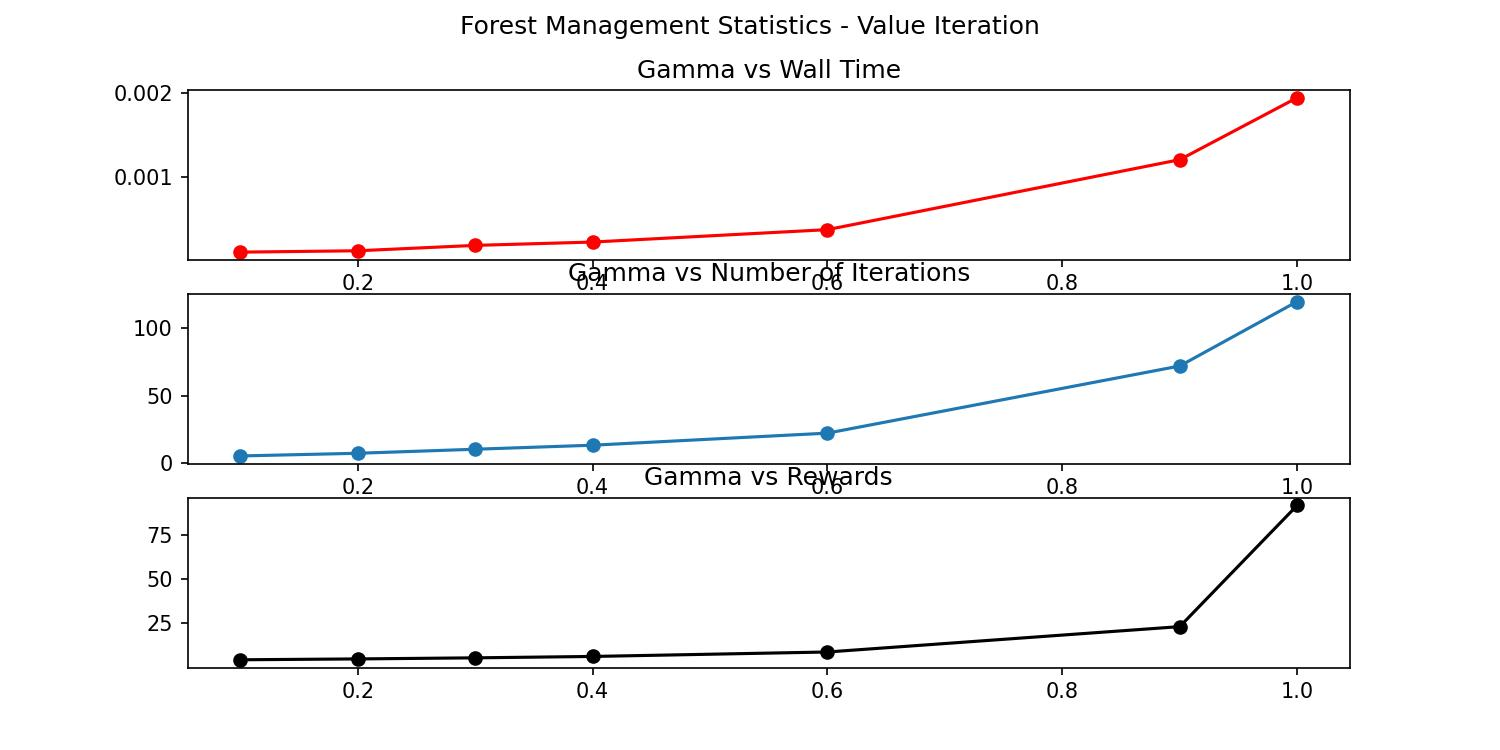
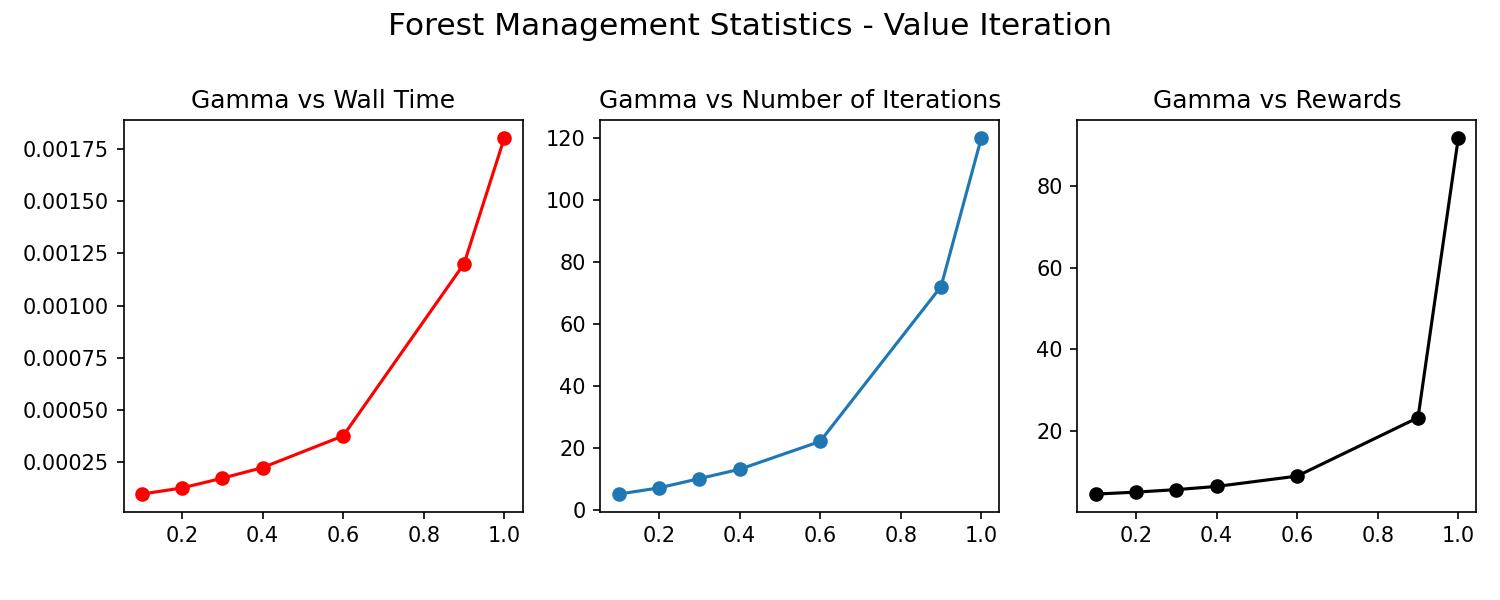
final code

diff --git a/reinforcement_learning/src/main.py b/reinforcement_learning/src/main.py
@@ -158,7 +158,8 @@ def forest_management_analysis(problem_size):
     visualize_statistics_forest(
         f"./reports/stats/forestManagement_{problem_size}.csv", "policy_iteration"
     )
-    plt.suptitle("Forest Management Statistics - Policy Iteration")
+    plt.suptitle("Forest Management Statistics - Policy Iteration", fontsize=15)
+    plt.subplots_adjust(top=0.8)
     plt.savefig(
         f"./reports/figures/forestManagement_{problem_size}_policy_iter_anylze.jpg",
         dpi=150,
@@ -167,7 +168,8 @@ def forest_management_analysis(problem_size):
     visualize_statistics_forest(
         f"./reports/stats/forestManagement_{problem_size}.csv", "value_iteration"
     )
-    plt.suptitle("Forest Management Statistics - Value Iteration")
+    plt.suptitle("Forest Management Statistics - Value Iteration", fontsize=15)
+    plt.subplots_adjust(top=0.8)
     plt.savefig(
         f"./reports/figures/forestManagement_{problem_size}_value_iter_anylze.jpg",
         dpi=150,
@@ -176,7 +178,8 @@ def forest_management_analysis(problem_size):
     visualize_statistics_forest(
         f"./reports/stats/forestManagement_{problem_size}.csv", "q_learning"
     )
-    plt.suptitle("Forest Management Statistics - Q Learning")
+    plt.suptitle("Forest Management Statistics - Q Learning", fontsize=15)
+    plt.subplots_adjust(top=0.8)
     plt.savefig(
         f"./reports/figures/forestManagement_{problem_size}_q_learning_anylze.jpg",
         dpi=150,

diff --git a/reinforcement_learning/src/visualization/visualize.py b/reinforcement_learning/src/visualization/visualize.py
@@ -134,7 +134,7 @@ def visualize_statistics_forest(file_path, algorithm):
 
     statistics = pd.read_csv(file_path)
     statistics = statistics[statistics["method"] == algorithm]
-    _, axes = plt.subplots(1, 3, figsize=(10, 5))
+    _, axes = plt.subplots(1, 3, figsize=(10, 4))
 
     axes[0].plot(statistics["gamma"], statistics["time"], "o-", color="r")
     axes[0].set_title("Gamma vs Wall Time")
@@ -153,5 +153,7 @@ def visualize_statistics_forest(file_path, algorithm):
         color="k",
     )
     axes[2].set_title("Gamma vs Rewards")
+
+    plt.tight_layout(rect=[0, 0.05, 1, 0.99])
 
     return plt
